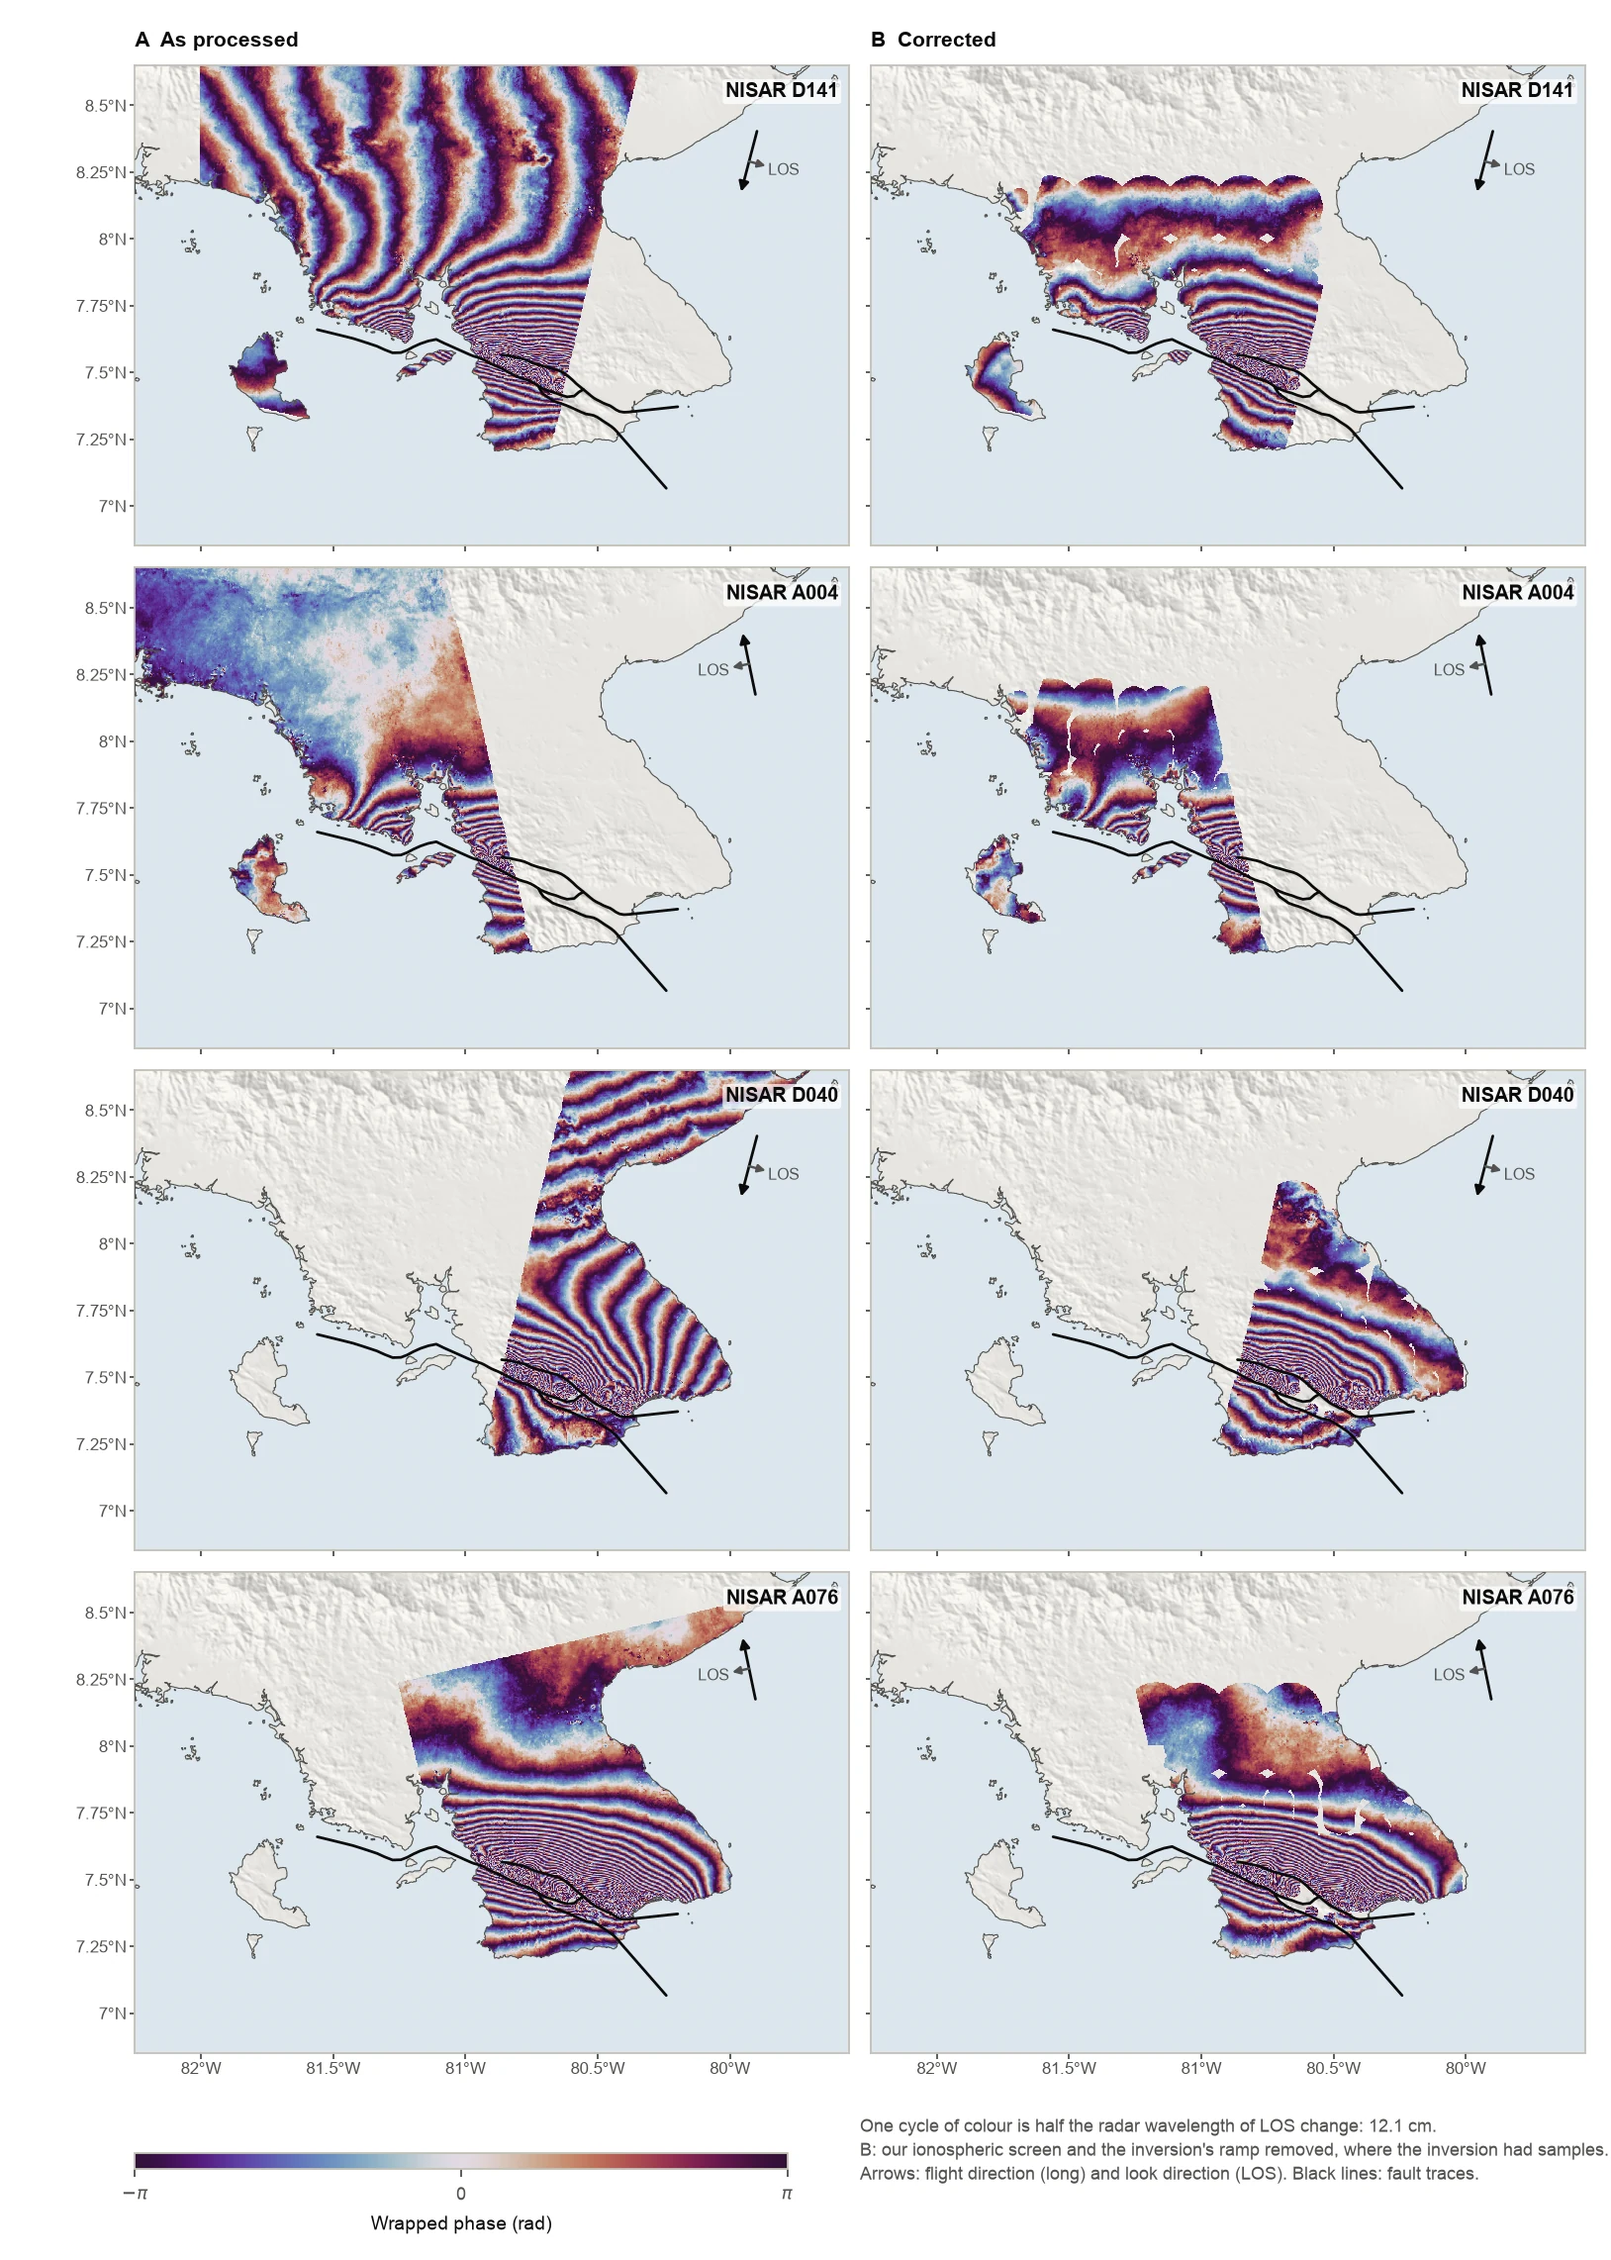
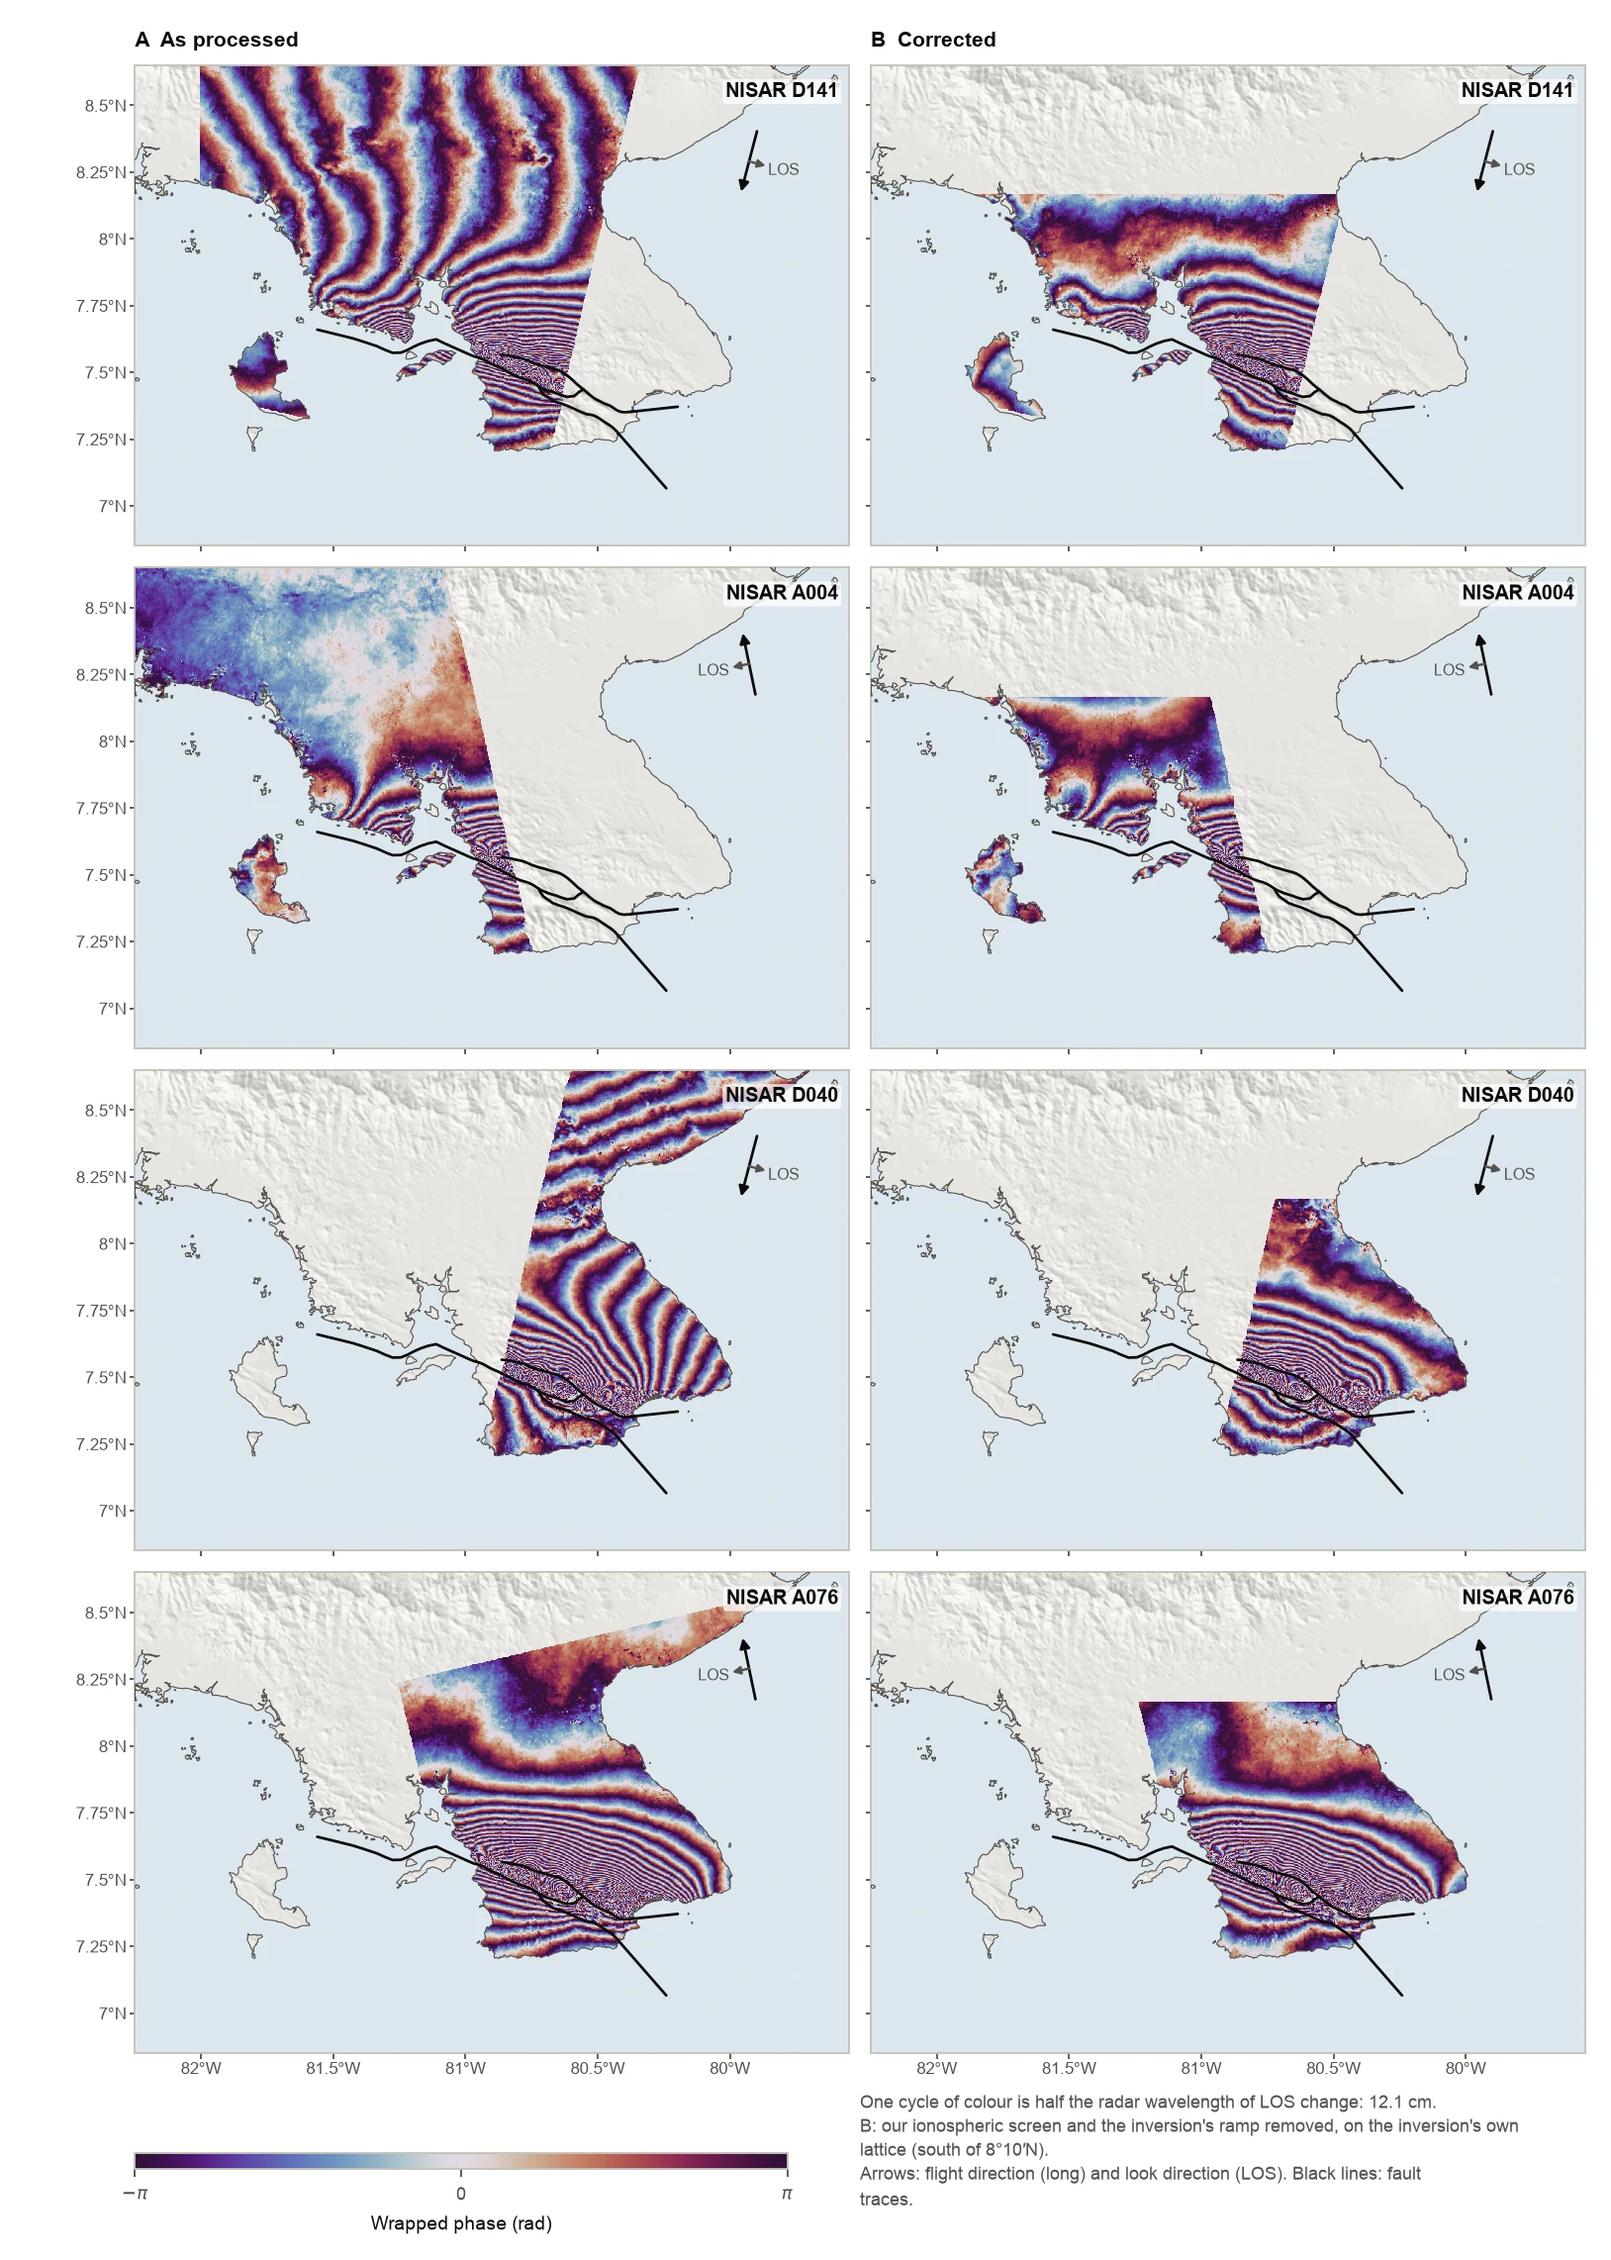
Slip models: corrected interferograms on each inversion's own lattice; fit rms in mm
Claude-Session: https://claude.ai/code/session_01Jh7HRsr9rCQcLgEgc5zuzg

diff --git a/research/slip-models/index.html b/research/slip-models/index.html
@@ -76,7 +76,7 @@
           <summary>The data: interferograms, GNSS and pixel offsets</summary>
           <figure class="slip-figure">
             <a href="../../assets/img/slip/panama_2026/insar.webp"><img src="../../assets/img/slip/panama_2026/insar.webp" alt="Interferograms of the 2026 Herrera, Panama earthquake, as processed and corrected" loading="lazy"></a>
-            <figcaption><strong>Interferograms.</strong> Each track (A) as processed and (B) corrected: our split-spectrum ionospheric screen and the inversion's ramp removed. B is shown only where the inversion has samples. Wrapped phase: one cycle of colour is half the radar wavelength of line-of-sight change.</figcaption>
+            <figcaption><strong>Interferograms.</strong> Each track (A) as processed and (B) corrected: our split-spectrum ionospheric screen and the inversion's ramp removed. B shows the data the inversion used, on its own lattice (south of 8°10′N). Wrapped phase: one cycle of colour is half the radar wavelength of line-of-sight change.</figcaption>
           </figure>
           <figure class="slip-figure">
             <a href="../../assets/img/slip/panama_2026/gnss_offsets.webp"><img src="../../assets/img/slip/panama_2026/gnss_offsets.webp" alt="GNSS displacements and pixel offsets for the 2026 Herrera, Panama earthquake" loading="lazy"></a>
@@ -123,7 +123,7 @@
           <summary>The data: interferograms, GNSS and pixel offsets</summary>
           <figure class="slip-figure">
             <a href="../../assets/img/slip/venezuela_2026/insar.webp"><img src="../../assets/img/slip/venezuela_2026/insar.webp" alt="Interferograms of the 2026 Venezuela earthquake, as processed and corrected" loading="lazy"></a>
-            <figcaption><strong>Interferograms.</strong> Each track (A) as processed and (B) corrected: our split-spectrum ionospheric screen (NISAR) and the inversion's ramp removed. B is shown only where the inversion has samples. Wrapped phase: one cycle of colour is half the radar wavelength of line-of-sight change.</figcaption>
+            <figcaption><strong>Interferograms.</strong> Each track (A) as processed and (B) corrected: our split-spectrum ionospheric screen (NISAR) and the inversion's ramp removed. B shows the data the inversion used, on its own lattice. Wrapped phase: one cycle of colour is half the radar wavelength of line-of-sight change.</figcaption>
           </figure>
           <figure class="slip-figure">
             <a href="../../assets/img/slip/venezuela_2026/gnss_offsets.webp"><img src="../../assets/img/slip/venezuela_2026/gnss_offsets.webp" alt="GNSS displacements and pixel offsets for the 2026 Venezuela earthquake" loading="lazy"></a>
@@ -171,7 +171,7 @@
           <summary>The data: interferograms, GNSS and pixel offsets</summary>
           <figure class="slip-figure">
             <a href="../../assets/img/slip/turkiye_2023/insar.webp"><img src="../../assets/img/slip/turkiye_2023/insar.webp" alt="Interferograms of the 2023 Kahramanmaraş earthquake doublet, as processed and corrected" loading="lazy"></a>
-            <figcaption><strong>Interferograms.</strong> Each track (A) as processed and (B) corrected: the inversion's ramp removed; it has no samples within 15 km of the faults, where the phase decorrelates. B is shown only where the inversion has samples. Wrapped phase: one cycle of colour is half the radar wavelength of line-of-sight change.</figcaption>
+            <figcaption><strong>Interferograms.</strong> Each track (A) as processed and (B) corrected: the inversion's ramp removed. B shows the data the inversion used: the coherent far field (coherence at least 0.25), more than 15 km from the faults, where LiCSAR's unwrapping fails across the ruptures; the pixel offsets cover the near field. Wrapped phase: one cycle of colour is half the radar wavelength of line-of-sight change.</figcaption>
           </figure>
           <figure class="slip-figure">
             <a href="../../assets/img/slip/turkiye_2023/gnss_offsets.webp"><img src="../../assets/img/slip/turkiye_2023/gnss_offsets.webp" alt="GNSS displacements and pixel offsets for the 2023 Kahramanmaraş earthquake doublet" loading="lazy"></a>
